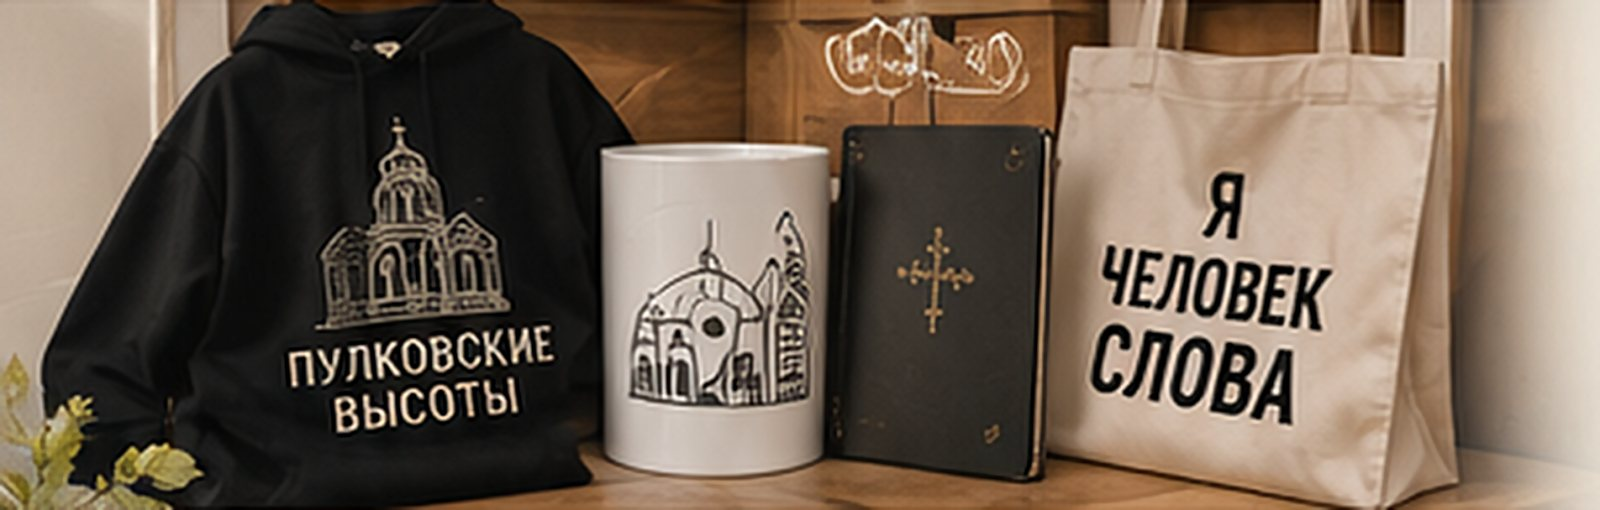
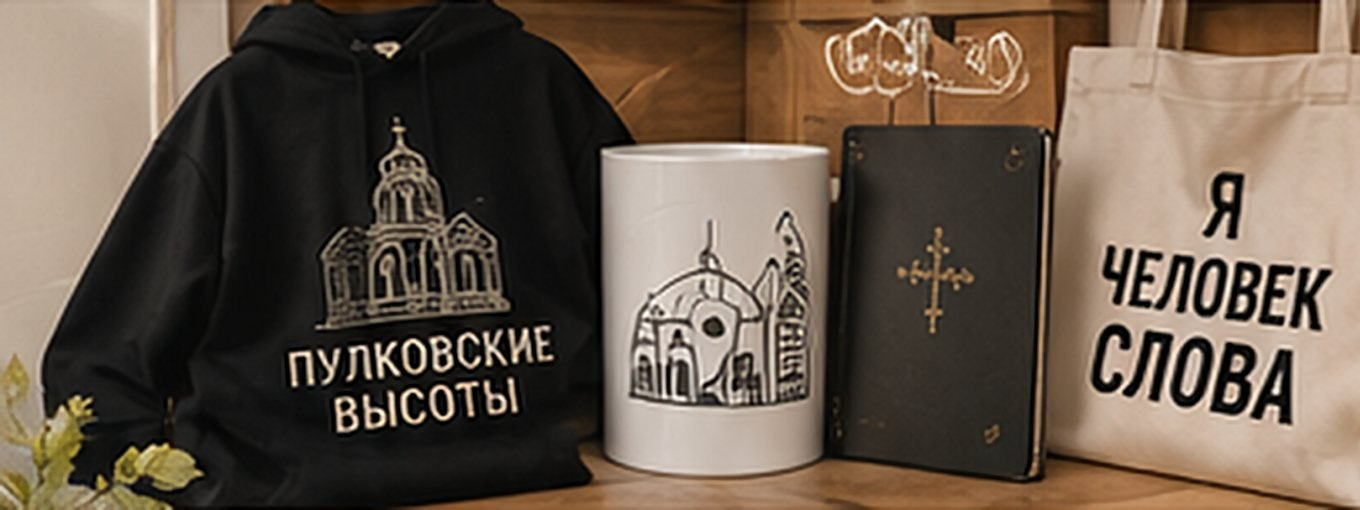
Remove image-to-background gradient fades
- Drop all CSS fades on hero and section photos; images have hard edges
- Crop baked-in fades out of about, Pulkovo, construction and merch photos
- Solid header bar; hero quote on a solid card; slider controls on a dark pill
- Phone layout: hero image below the text

Claude-Session: https://claude.ai/code/session_017vNFJLKPKdVqLUhWLdhHgr

diff --git a/docs/assets/css/styles.css b/docs/assets/css/styles.css
@@ -92,20 +92,16 @@ p { margin: 0; }
 
 .media { position: relative; overflow: hidden; margin: 0; }
 .media > img { width: 100%; height: 100%; object-fit: cover; }
-/* мягкий переход фото в фон слева / справа */
-.fade-left::before, .fade-right::after { content: ""; position: absolute; top: 0; bottom: 0; width: 36%; z-index: 1; pointer-events: none; }
-.fade-left::before { left: 0; background: linear-gradient(90deg, var(--fade, var(--milk)) 0%, transparent 100%); }
-.fade-right::after { right: 0; background: linear-gradient(270deg, var(--fade, var(--milk)) 0%, transparent 100%); }
 
-.round-btn { width: 48px; height: 48px; border-radius: var(--radius-pill); cursor: pointer; border: 1px solid rgba(255,255,255,.85); background: rgba(33,31,26,.12); color: var(--white); display: inline-flex; align-items: center; justify-content: center; transition: background-color .2s ease; }
-.round-btn:hover { background: rgba(33,31,26,.35); }
+.round-btn { width: 44px; height: 44px; border-radius: var(--radius-pill); cursor: pointer; border: 1px solid rgba(255,255,255,.5); background: transparent; color: var(--white); display: inline-flex; align-items: center; justify-content: center; transition: background-color .2s ease; }
+.round-btn:hover { background: rgba(255,255,255,.12); }
 .round-btn svg { width: 18px; height: 18px; }
 .round-btn--light { border: 0; background: var(--milk-light); color: var(--ink); box-shadow: 0 6px 18px rgba(33,31,26,.2); }
 .round-btn--light:hover { background: var(--white); }
 
 /* ---------- Шапка ---------- */
-.site-header { position: absolute; inset: 0 0 auto 0; z-index: 20; padding-top: env(safe-area-inset-top, 0px); }
-.site-header__inner { max-width: var(--page-max); margin-inline: auto; display: flex; align-items: center; gap: 24px; padding: 16px var(--pad) 0 calc(var(--pad) * .82); }
+.site-header { position: absolute; inset: 0 0 auto 0; z-index: 20; padding-top: env(safe-area-inset-top, 0px); background: var(--milk); border-bottom: 1px solid var(--line); }
+.site-header__inner { max-width: var(--page-max); margin-inline: auto; display: flex; align-items: center; gap: 24px; padding: 12px var(--pad) 12px calc(var(--pad) * .82); }
 .brand { display: flex; align-items: center; gap: 14px; text-decoration: none; flex: 0 0 auto; }
 .brand img { width: 58px; height: 58px; }
 .brand__name { font-size: 0.8125rem; line-height: 1.35; }
@@ -127,15 +123,13 @@ p { margin: 0; }
 
 /* ---------- Первый экран ---------- */
 .hero { position: relative; height: clamp(600px, 51.4vw, 860px); overflow: hidden; background: var(--milk); }
-.hero__media { position: absolute; top: 0; bottom: 0; right: 0; width: 62%; }
+.hero__media { position: absolute; top: 83px; bottom: 0; right: 0; width: 56%; }
 .hero__slide { position: absolute; inset: 0; margin: 0; opacity: 0; transition: opacity .9s ease; }
 .hero__slide.is-active { opacity: 1; }
 .hero__slide img { width: 100%; height: 100%; object-fit: cover; object-position: 0% 60%; }
-.hero__media::before { content: ""; position: absolute; top: 0; bottom: 0; left: 0; width: 12%; z-index: 2; background: linear-gradient(90deg, var(--milk) 0%, rgba(243,235,221,0) 100%); }
-.hero__media::after { content: ""; position: absolute; inset: 0 0 auto 0; height: 18%; z-index: 2; background: linear-gradient(180deg, rgba(243,235,221,.55), rgba(243,235,221,0)); }
-.hero__badge { position: absolute; left: 36%; bottom: 26px; z-index: 3; font-size: 0.6875rem; letter-spacing: .14em; text-transform: uppercase; padding: 6px 12px; border-radius: var(--radius-pill); background: rgba(33,31,26,.5); color: var(--on-dark); }
+.hero__badge { position: absolute; left: 24px; bottom: 30px; z-index: 3; font-size: 0.6875rem; letter-spacing: .14em; text-transform: uppercase; padding: 6px 12px; border-radius: var(--radius-pill); background: rgba(32,41,31,.88); color: var(--on-dark); }
 .hero__inner { position: relative; z-index: 4; height: 100%; max-width: var(--page-max); margin-inline: auto; padding: 0 var(--pad); }
-.hero__copy { position: absolute; left: var(--pad); top: 50%; transform: translateY(-38%); width: min(44%, 560px); display: flex; flex-direction: column; gap: 24px; }
+.hero__copy { position: absolute; left: var(--pad); top: 50%; transform: translateY(-38%); width: min(36%, 540px); display: flex; flex-direction: column; gap: 24px; }
 .hero__title { font-size: var(--fs-hero); line-height: 0.96; }
 .hero__text { font-size: 1.125rem; color: #3E3A31; max-width: 25em; }
 .hero__actions { display: flex; flex-wrap: wrap; align-items: center; gap: 18px 36px; padding-top: 8px; }
@@ -143,11 +137,11 @@ p { margin: 0; }
 .play-link__icon { width: 50px; height: 50px; border-radius: var(--radius-pill); border: 1px solid var(--ink); display: inline-flex; align-items: center; justify-content: center; transition: background-color .2s ease; }
 .play-link:hover .play-link__icon { background: rgba(33,31,26,.06); }
 .play-link__icon svg { width: 14px; height: 14px; margin-left: 2px; }
-.hero__quote { position: absolute; right: var(--pad); top: 21%; max-width: 300px; margin: 0; }
-.hero__quote p { font-family: var(--font-display); font-style: italic; font-size: clamp(1.1rem, 1.6vw, 1.45rem); line-height: 1.38; text-shadow: 0 0 16px rgba(247,242,233,.95), 0 0 3px rgba(247,242,233,.95); }
-.hero__quote cite { display: block; margin-top: 16px; font-style: normal; font-size: var(--fs-small); color: #3E3A31; text-shadow: 0 0 12px rgba(247,242,233,.95); }
-.hero__controls { position: absolute; right: var(--pad); bottom: 22px; z-index: 5; display: flex; align-items: center; gap: 12px; }
-.hero__counter { font-family: var(--font-display); font-size: 1rem; color: var(--white); text-shadow: 0 1px 8px rgba(0,0,0,.5); font-variant-numeric: tabular-nums; margin-right: 8px; }
+.hero__quote { position: absolute; right: var(--pad); top: calc(83px + 32px); max-width: 320px; margin: 0; padding: 20px 24px; background: var(--milk-light); border-radius: 8px; box-shadow: 0 10px 28px rgba(33,31,26,.12); }
+.hero__quote p { font-family: var(--font-display); font-style: italic; font-size: clamp(1.1rem, 1.6vw, 1.45rem); line-height: 1.38; }
+.hero__quote cite { display: block; margin-top: 16px; font-style: normal; font-size: var(--fs-small); color: #3E3A31; }
+.hero__controls { position: absolute; right: var(--pad); bottom: 22px; z-index: 5; display: flex; align-items: center; gap: 8px; padding: 6px 6px 6px 20px; border-radius: var(--radius-pill); background: rgba(32,41,31,.88); }
+.hero__counter { font-family: var(--font-display); font-size: 1rem; color: var(--white); font-variant-numeric: tabular-nums; margin-right: 8px; }
 .hero__counter b { font-weight: 400; font-size: 1.25rem; }
 
 /* ---------- Календарная полоса ---------- */
@@ -187,8 +181,6 @@ p { margin: 0; }
 /* ---------- Покровители ---------- */
 .saints { position: relative; background: var(--olive); color: var(--on-dark); overflow: hidden; }
 .saints__grid { display: grid; grid-template-columns: 54fr 46fr; min-height: clamp(400px, 28.8vw, 500px); }
-.saints__media { --fade: var(--olive); }
-.saints__media::after { width: 14%; }
 .saints__media img { object-position: 50% 30%; }
 .saints__copy { display: flex; flex-direction: column; justify-content: center; gap: 22px; padding: 48px var(--pad) 48px clamp(24px, 3vw, 48px); }
 .saints__copy h2 { font-size: var(--fs-h2); }
@@ -198,7 +190,6 @@ p { margin: 0; }
 .place { position: relative; background: var(--milk); }
 .place__grid { display: grid; grid-template-columns: 34fr 40fr 26fr; min-height: clamp(360px, 24.8vw, 440px); }
 .place__copy { display: flex; flex-direction: column; justify-content: center; gap: 20px; padding: 40px 24px 40px var(--pad); }
-.place__media::after { width: 0; }
 .map-card { position: relative; margin: 8px 8px 8px 0; border-radius: 10px; overflow: hidden; background: #E4E2D4; display: flex; flex-direction: column; justify-content: flex-end; padding: 0 0 40px clamp(20px, 3vw, 44px); box-shadow: 0 0 0 1px var(--line); }
 .map-card__svg { position: absolute; inset: 0; width: 100%; height: 100%; }
 .map-card__pin { position: absolute; z-index: 1; left: 28%; top: 30%; display: flex; align-items: center; gap: 10px; }
@@ -209,8 +200,6 @@ p { margin: 0; }
 /* ---------- Строим вместе ---------- */
 .build { position: relative; background: var(--milk); }
 .build__grid { display: grid; grid-template-columns: 50.7fr 28.7fr 20.6fr; min-height: clamp(320px, 22vw, 400px); }
-.build__media { --fade: var(--milk); }
-.build__media::after { width: 30%; }
 .build__copy { display: flex; flex-direction: column; justify-content: center; gap: 18px; padding: 32px clamp(16px, 2vw, 32px) 32px 4px; }
 .build__copy .text { font-size: 0.9375rem; }
 .progress-card { align-self: center; margin: 12px calc(var(--pad) * .2) 12px 0; background: var(--milk-light); border-radius: 12px; padding: 26px 24px; display: flex; flex-direction: column; gap: 14px; box-shadow: 0 0 0 1px var(--line), 0 12px 30px rgba(33,31,26,.06); }
@@ -240,8 +229,6 @@ p { margin: 0; }
 /* ---------- Мерч ---------- */
 .merch { position: relative; background: var(--milk); overflow: hidden; }
 .merch__grid { display: grid; grid-template-columns: 58fr 42fr; min-height: clamp(280px, 18.6vw, 330px); }
-.merch__media { --fade: var(--milk); }
-.merch__media::after { width: 30%; }
 .merch__copy { position: relative; z-index: 2; display: flex; flex-direction: column; justify-content: center; gap: 14px; padding: 20px var(--pad) 20px clamp(16px, 2vw, 32px); }
 .merch__copy .text { font-size: 0.9375rem; max-width: 28em; }
 .merch__leaves { position: absolute; right: 0; top: 4%; bottom: 0; width: clamp(60px, 7vw, 110px); pointer-events: none; mix-blend-mode: multiply; }
@@ -418,9 +405,8 @@ p { margin: 0; }
 @media (max-width: 1200px) {
   .nav { display: none; }
   .header-actions { margin-left: auto; }
-  .hero__copy { width: min(52%, 520px); }
-  .hero__media { width: 66%; }
-  .hero__media::before { width: 22%; }
+  .hero__copy { width: min(44%, 460px); }
+  .hero__media { width: 50%; }
   .hero__quote { display: none; }
   .calendar-strip__grid { grid-template-columns: repeat(2, minmax(0, 1fr)); padding-inline: var(--pad); }
   .cal-cell { border-left: 0; border-top: 1px solid var(--line); padding-inline: 0; }
@@ -451,11 +437,11 @@ p { margin: 0; }
   .header-actions .btn { display: none; }
 
   .hero { height: auto; display: flex; flex-direction: column; }
-  .hero__inner { height: auto; padding-top: 104px; padding-bottom: 24px; }
+  .hero__inner { height: auto; padding-top: 112px; padding-bottom: 24px; }
   .hero__copy { position: static; transform: none; width: 100%; }
-  .hero__media { position: relative; width: 100%; height: 70vw; min-height: 280px; }
-  .hero__media::before { width: 100%; height: 28%; bottom: auto; background: linear-gradient(180deg, var(--milk), rgba(243,235,221,0)); }
-  .hero__media::after { display: none; }
+  .hero__media { position: relative; top: 0; width: 100%; height: 70vw; min-height: 280px; order: 2; }
+  .hero__inner { order: 1; }
+  .hero__controls { padding-left: 16px; }
   .hero__badge { left: var(--pad); bottom: 16px; }
   .hero__controls { bottom: 12px; }
   .round-btn { width: 44px; height: 44px; }
@@ -469,7 +455,6 @@ p { margin: 0; }
   .about__copy, .place__copy, .saints__copy, .merch__copy { padding: 52px var(--pad) 28px; }
   .about__media, .place__media, .build__media, .merch__media { aspect-ratio: 4 / 3; }
   .saints__media { aspect-ratio: 16 / 10; order: 2; }
-  .fade-left::before, .fade-right::after { display: none; }
   .directions { grid-template-columns: minmax(0, 1fr); gap: 18px; padding-block: 32px; }
   .map-card { margin: 24px var(--pad) 40px; }
   .build__copy { padding: 32px var(--pad) 20px; }

diff --git a/docs/index.html b/docs/index.html
@@ -156,8 +156,8 @@
       <p class="text">Будущий храм святых Кирилла и Мефодия станет духовным, культурным и просветительским центром на Пулковских высотах. Здесь будут совершаться богослужения, вестись занятия с детьми и взрослыми, оказываться помощь нуждающимся.</p>
       <a class="link-arrow" href="#" data-soon>Узнать больше о храме <svg aria-hidden="true"><use href="#i-arrow"/></svg></a>
     </div>
-    <figure class="media fade-left about__media">
-      <img src="assets/img/about-ref.jpg" width="1144" height="976" alt="Фасад будущего храма в обрамлении осенней листвы" loading="lazy">
+    <figure class="media about__media">
+      <img src="assets/img/about-ref.jpg" width="801" height="976" alt="Фасад будущего храма в обрамлении осенней листвы" loading="lazy">
     </figure>
     <ol class="directions" aria-label="Направления жизни прихода">
       <li><span class="directions__num">01</span><div><h3>Молитва</h3><p>Богослужения и таинства</p></div></li>
@@ -172,7 +172,7 @@
 <section class="saints" id="saints" aria-labelledby="saints-title">
   <span class="numeral numeral--light" aria-hidden="true">02</span>
   <div class="saints__grid">
-    <figure class="media fade-right saints__media">
+    <figure class="media saints__media">
       <img src="assets/img/saints-ref.jpg" width="1600" height="854" alt="Образ святых равноапостольных Кирилла и Мефодия" loading="lazy">
     </figure>
     <div class="saints__copy">
@@ -216,8 +216,8 @@
       <p class="text">Место с особой историей и духовным значением. От рубежа обороны Ленинграда до символа мира и возрождения. Здесь, на этой земле, будет воздвигнут храм — как благодарность за жизнь, мир и будущее.</p>
       <a class="link-arrow" href="#" data-soon>Подробнее об истории <svg aria-hidden="true"><use href="#i-arrow"/></svg></a>
     </div>
-    <figure class="media fade-left place__media">
-      <img src="assets/img/pulkovo-ref.jpg" width="1292" height="812" alt="Вид с высот на город на закате" loading="lazy">
+    <figure class="media place__media">
+      <img src="assets/img/pulkovo-ref.jpg" width="1099" height="812" alt="Вид с высот на город на закате" loading="lazy">
     </figure>
     <div class="map-card">
       <svg class="map-card__svg" viewBox="0 0 300 380" preserveAspectRatio="xMidYMid slice" aria-hidden="true">
@@ -262,8 +262,8 @@
 <!-- ============ СТРОИМ ВМЕСТЕ ============ -->
 <section class="build" id="build" aria-labelledby="build-title">
   <div class="build__grid">
-    <figure class="media fade-right build__media">
-      <img src="assets/img/build-ref.jpg" width="1600" height="693" alt="Деревянные конструкции и поклонный крест на закате" loading="lazy">
+    <figure class="media build__media">
+      <img src="assets/img/build-ref.jpg" width="1376" height="693" alt="Деревянные конструкции и поклонный крест на закате" loading="lazy">
     </figure>
     <div class="build__copy">
       <span class="eyebrow">Строительство</span>
@@ -325,8 +325,8 @@
 <!-- ============ МЕРЧ ============ -->
 <section class="merch" id="merch" aria-labelledby="merch-title">
   <div class="merch__grid">
-    <figure class="media fade-right merch__media">
-      <img src="assets/img/merch-ref.jpg" width="1600" height="510" alt="Мерч прихода: худи «Пулковские высоты», кружка, блокнот и шопер «Я человек слова»" loading="lazy">
+    <figure class="media merch__media">
+      <img src="assets/img/merch-ref.jpg" width="1360" height="510" alt="Мерч прихода: худи «Пулковские высоты», кружка, блокнот и шопер «Я человек слова»" loading="lazy">
     </figure>
     <div class="merch__copy">
       <span class="numeral" aria-hidden="true" style="top: 4%; right: 24%">05</span>
